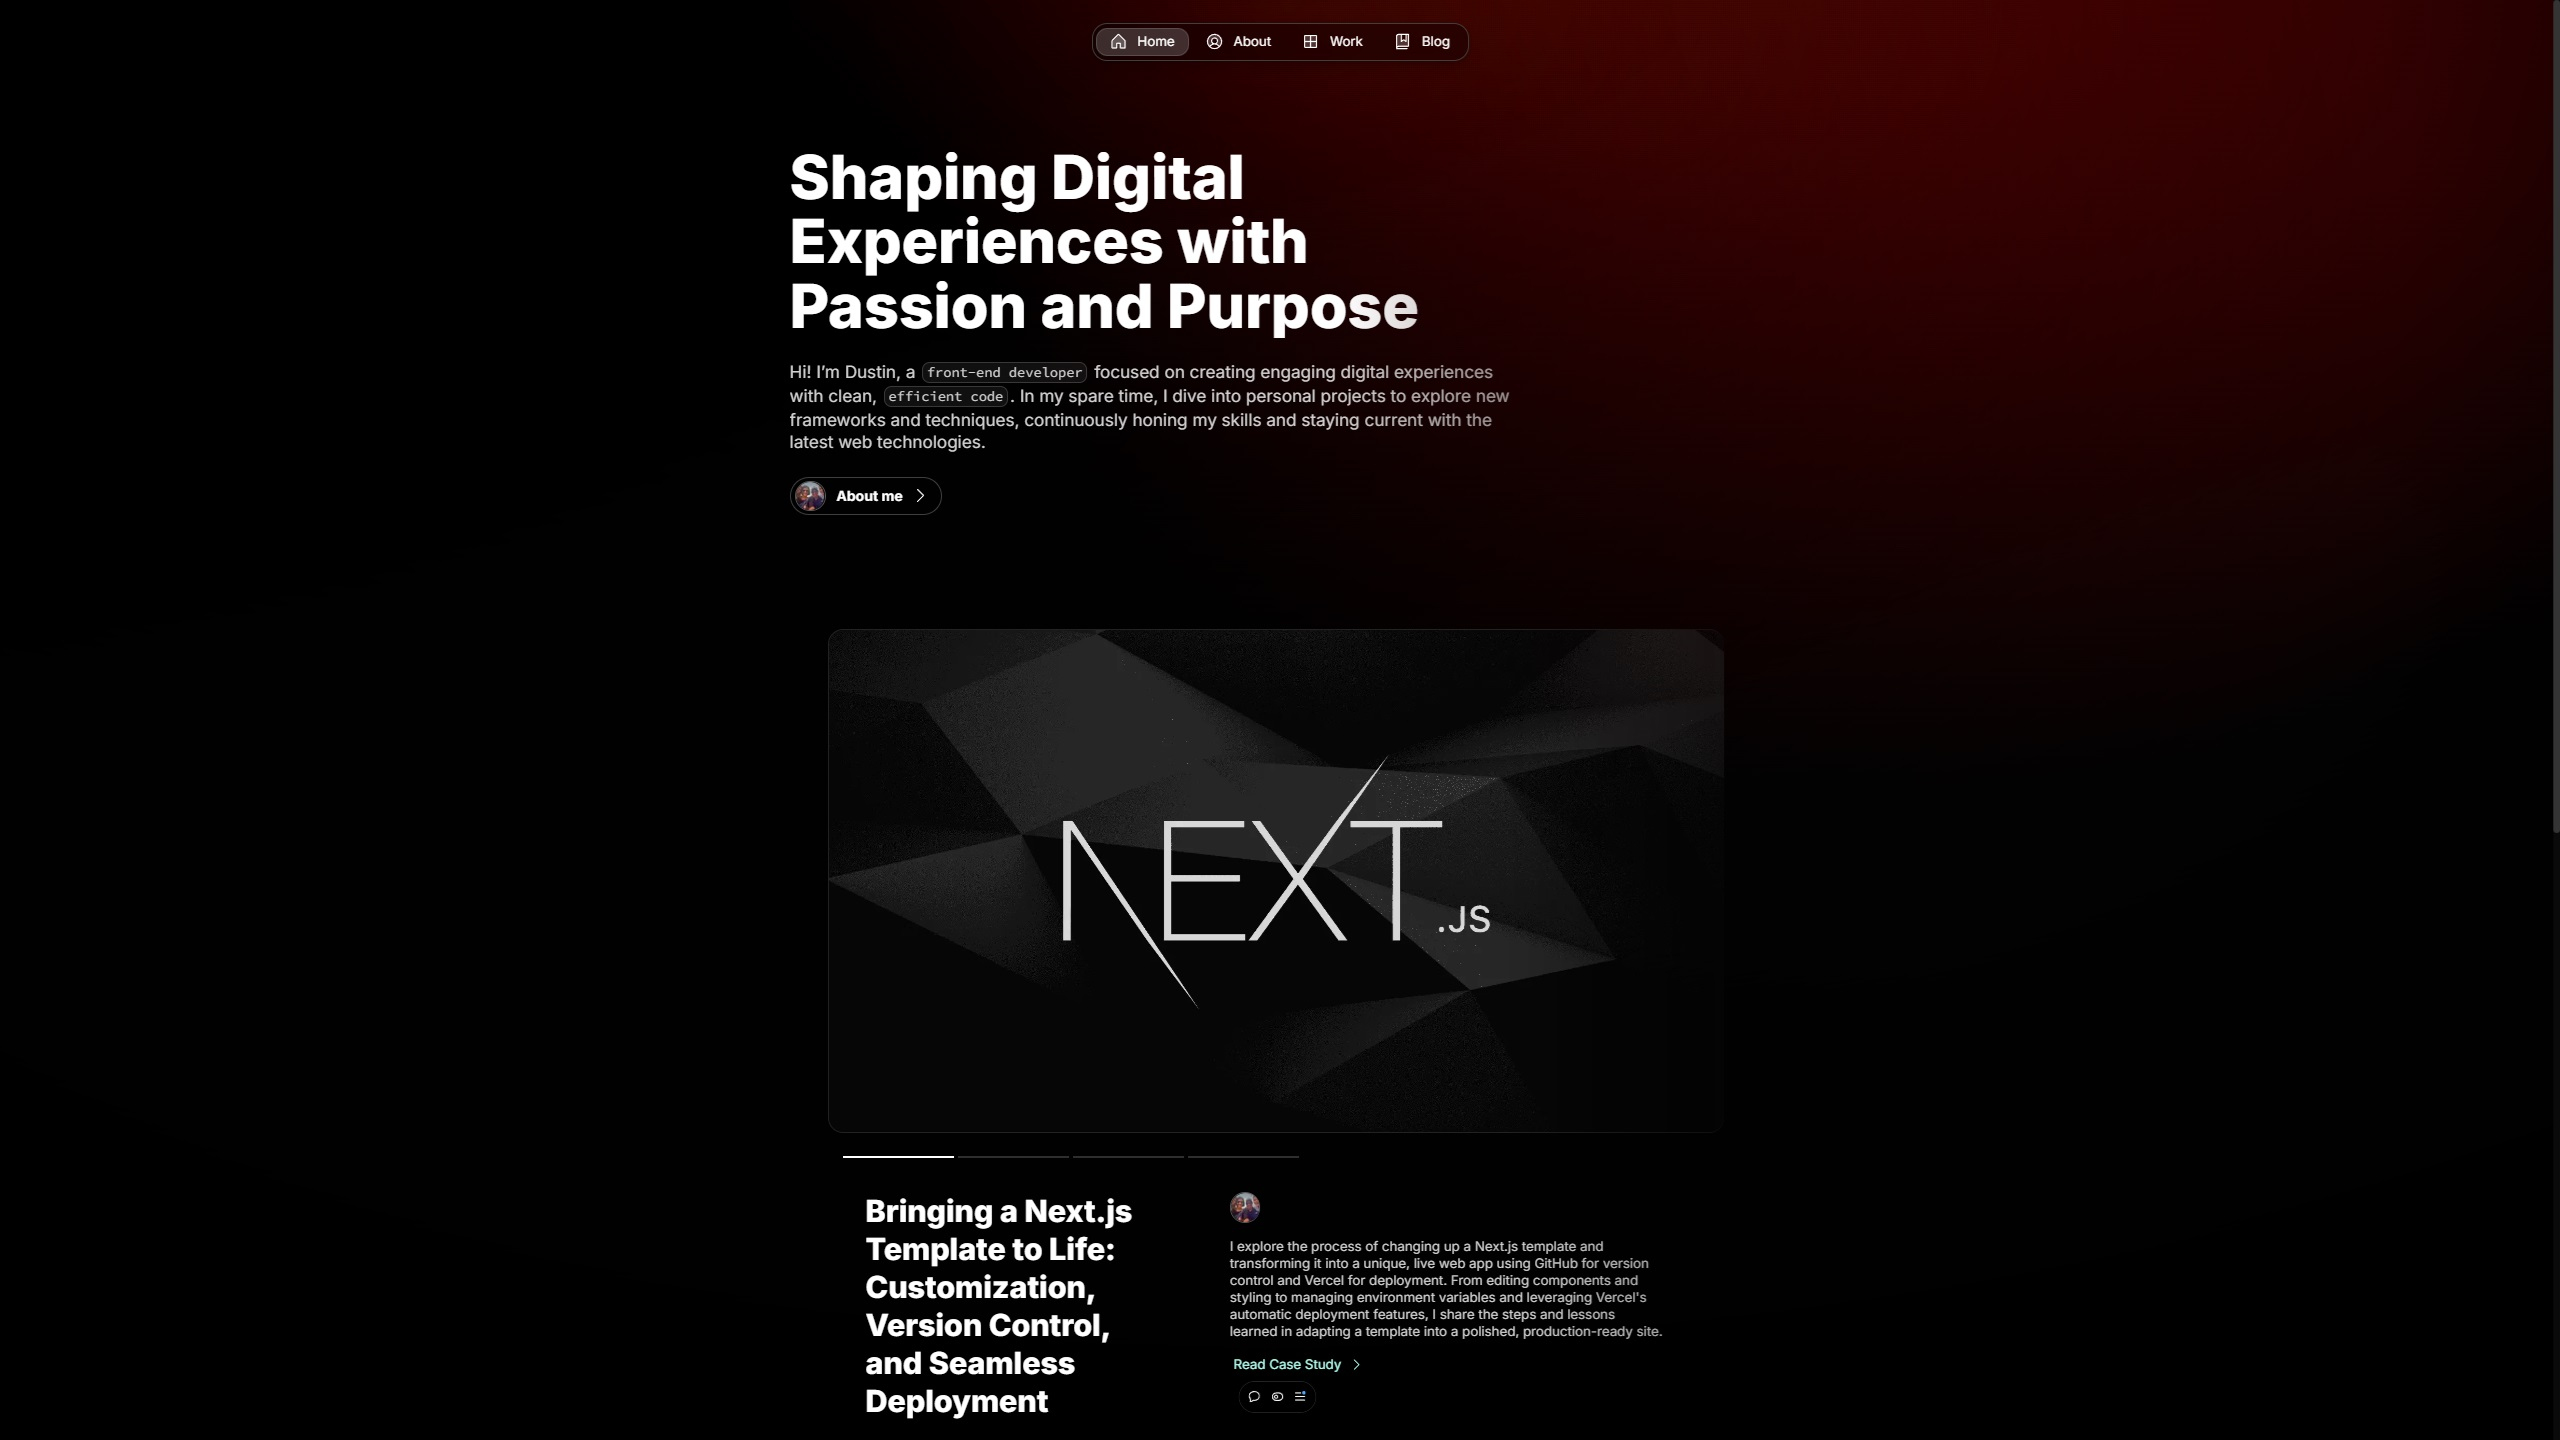
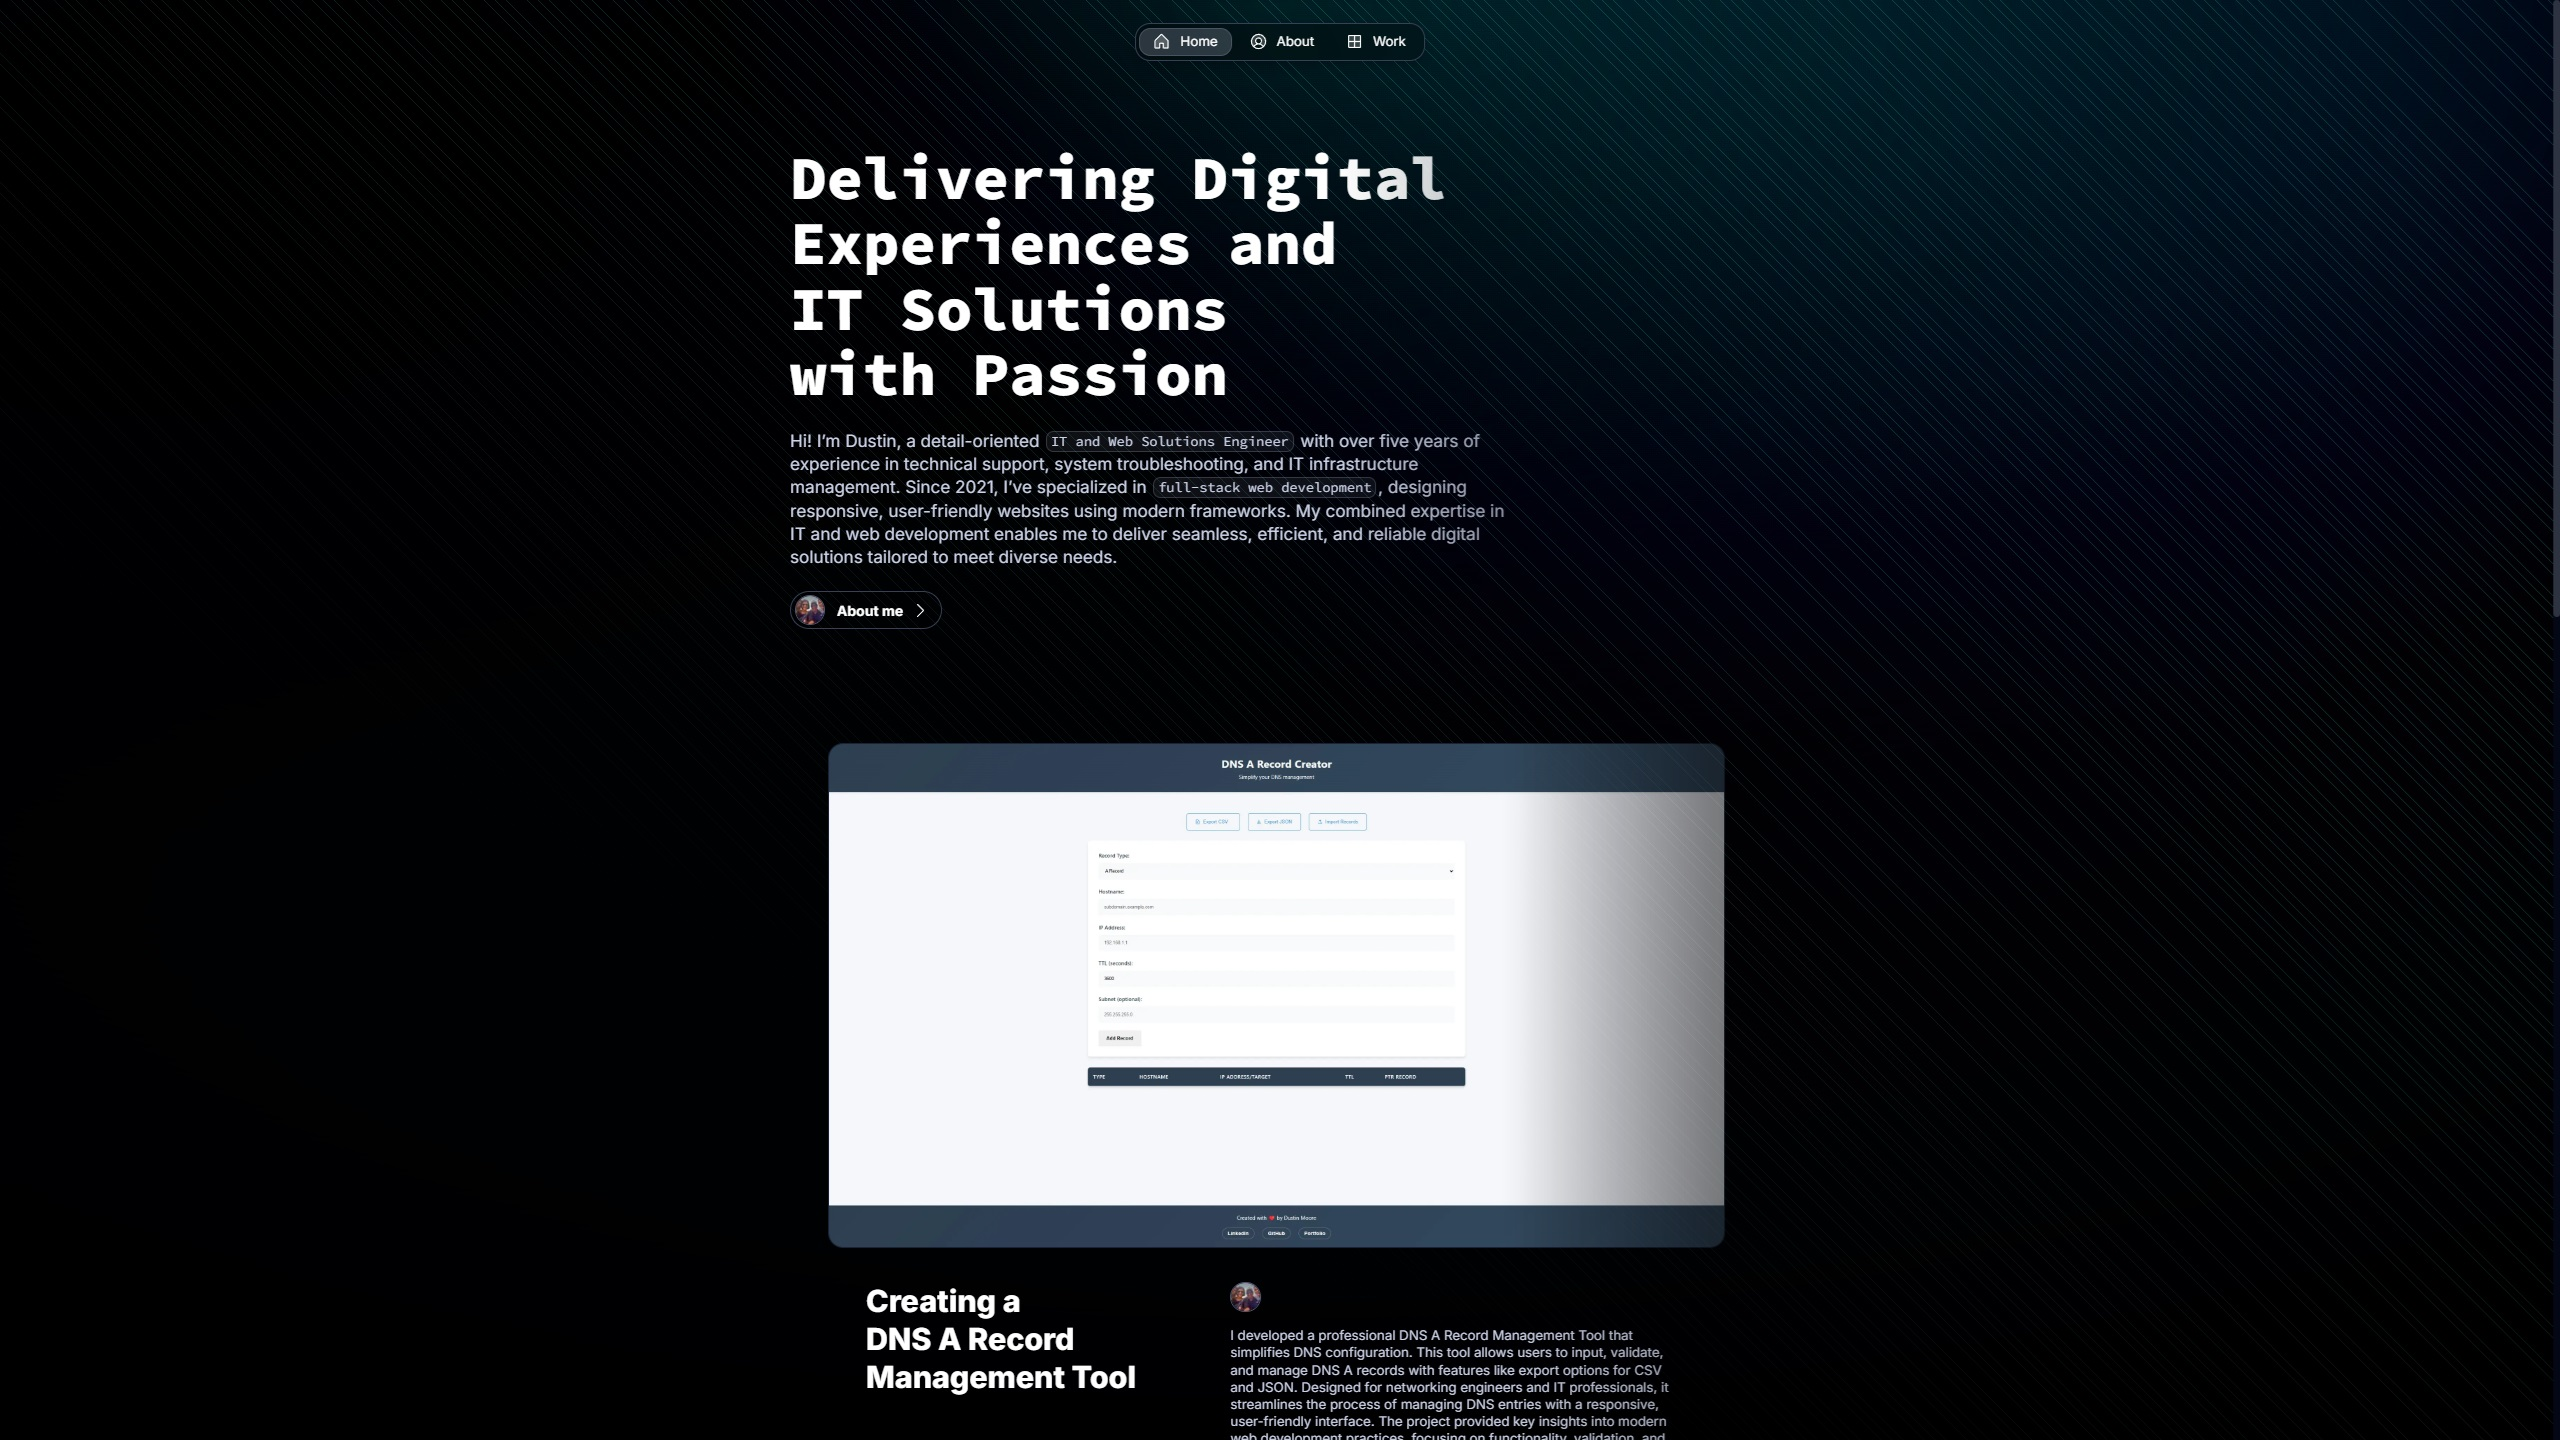
overhaul

diff --git a/README.md b/README.md
@@ -1,5 +1,5 @@
 <div align="center">
-  <img src="./Assets/Images/banner.jpg" alt="Dustin Moore">
+  <img src="./Assets/Images/banner.png" alt="Dustin Moore">
 </div>
 <br>
 <div align="center" style="display: flex; justify-content: center; gap: 15px;">
@@ -15,7 +15,7 @@
 ---
 
 ## 🚀 About Me
-I’m a full-stack developer specializing in responsive, user-focused web experiences. Starting with Squarespace, I quickly advanced to frameworks like React, Bootstrap, and Next.js, along with Node.js for back-end development, allowing me to build seamless, high-quality digital solutions from end to end. I use tools like Git, GitHub, and Vercel to optimize workflows and ensure efficient deployment, consistently delivering projects on time. By embracing AI and modern technologies, I prioritize efficiency and industry standards, crafting intuitive, engaging web experiences that drive results.
+Hi! I’m Dustin, a detail-oriented IT and Web Solutions Engineer with over five years of experience in technical support, system troubleshooting, and IT infrastructure management. Since 2021, I’ve specialized in full-stack web development, designing responsive, user-friendly websites using modern frameworks. My combined expertise in IT and web development enables me to deliver seamless, efficient, and reliable digital solutions tailored to meet diverse needs.
 
 ---
 
@@ -39,58 +39,42 @@ I’m a full-stack developer specializing in responsive, user-focused web experi
 ## 🌟 My Projects
 <div align="left">
   <h3>Personal Portfolio Website</h3>
-  <p>A showcase of my portfolio, built with React, Next.js, and Typescript for responsive design.</p>
+  <p>Portfolio with React, Next.js, and Typescript.</p>
   <div align="center">
     <img src="./Assets/Images/dm1.jpg" alt="Portfolio Animation">
   </div>
 </div>
-  <div align="center">
-    <img src="./Assets/Images/dm2.jpg" alt="Portfolio Animation">
-  </div>
-</div>
-  <div align="center">
-    <img src="./Assets/Images/dm3.jpg" alt="Portfolio Animation">
-  </div>
-</div>
-  <div align="center">
-    <img src="./Assets/Images/dm4.jpg" alt="Portfolio Animation">
-  </div>
-</div>
-  <div align="center">
-    <img src="./Assets/Images/dm5.jpg" alt="Portfolio Animation">
-  </div>
     <p><a href="https://github.com/dustinmmoore/magic-portfolio">🔗 View Project</a></p>
 </div>
 <br><br>
 <div align="left">
   <h3>Dynamic Business Website</h3>
-  <p>Kinetic Solutions LLC revamp powered by Bootstrap 5 and  Vanilla Javascript.</p>
+  <p>Kinetic Solutions LLC</p>
   <div align="center">
     <img src="./Assets/Images/ks1.jpg" alt="Portfolio Animation">
   </div>
 </div>
-</div>
-  <div align="center">
-    <img src="./Assets/Images/ks3.jpg" alt="Portfolio Animation">
-  </div>
-</div>
-</div>
-  <div align="center">
-    <img src="./Assets/Images/ks5.jpg" alt="Portfolio Animation">
-  </div>
-</div>
-  <div align="center">
-    <img src="./Assets/Images/ks6.jpg" alt="Portfolio Animation">
-  </div>
-</div>
-  <div align="center">
-    <img src="./Assets/Images/ks7.jpg" alt="Portfolio Animation">
-  </div>
-</div>
-  <div align="center">
-    <img src="./Assets/Images/ks8.jpg" alt="Portfolio Animation">
-  </div>
   <p><a href="https://github.com/dustinmmoore/kineticsolutionsllc">🔗 View Project</a></p>
+</div>
+<br><br>
+<div align="left">
+  <h3>DNS A Record Creator</h3>
+  <p>Simple DNS management tool for IT and networking professionals.</p>
+  <div align="center">
+    <img src="./Assets/Images/a-record-creator.jpg" alt="Portfolio Animation">
+  </div>
+</div>
+    <p><a href="https://github.com/dustinmmoore/a-record-creator">🔗 View Project</a></p>
+</div>
+<br><br>
+<div align="left">
+  <h3>Tic Tac Toe with Party Mode</h3>
+  <p>A slightly different take on Tic Tac Toe.</p>
+  <div align="center">
+    <img src="./Assets/Images/tic-tac-toe.jpg" alt="Portfolio Animation">
+  </div>
+</div>
+    <p><a href="https://github.com/dustinmmoore/tictactoe">🔗 View Project</a></p>
 </div>
 
 ---
